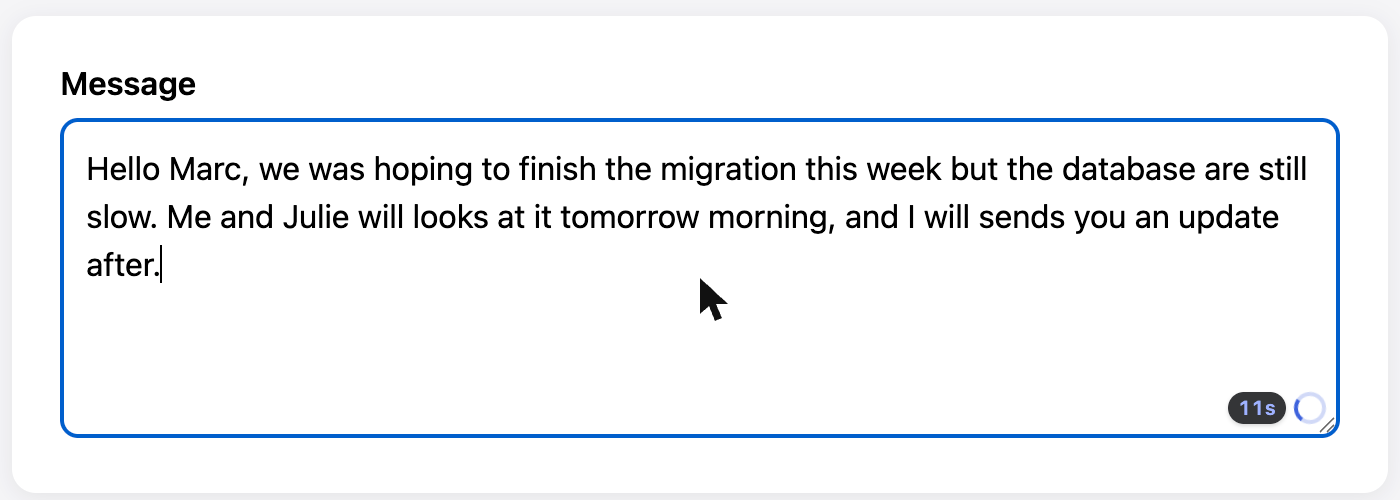
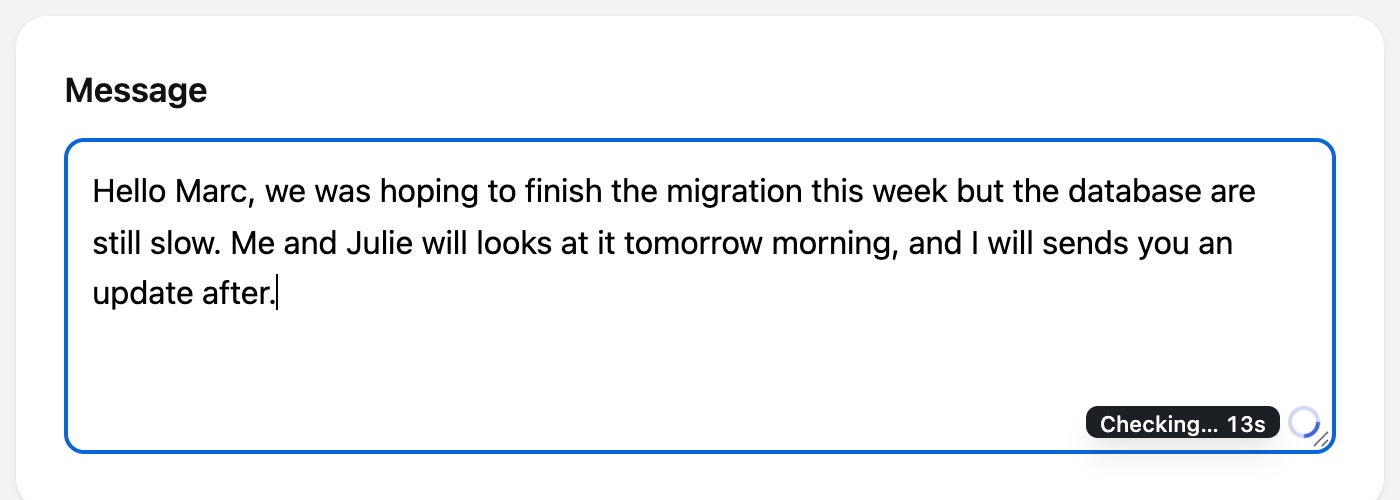
docs: README screenshots in the new extension look, PR screenshots
The card, issue list, rephrase and checking timer images are retaken with
the real content script on a sample page (a stub stands in for the
background and core). The timer text now says it shows on hover, as the
code does. Adds the options page, dark card and before/after images used
by the PR.

Changed region(s): [[0.0307, 0.15, 0.9829, 0.93], [0.4914, 0.57, 0.5221, 0.63]]

diff --git a/README.md b/README.md
@@ -86,9 +86,9 @@ Build the same files locally with `bun run package:extension` and `bun run packa
 
 Focus any text field in Chrome and type. Underlines appear about a second after you stop. Click one to open its card, or click the badge to list every issue and reach the **Rephrase** tone buttons.
 
-While a check runs, the badge is a spinner. On a slow local model, the time spent appears beside it after 10 s, so you can tell a long check from a stuck one:
+While a check runs, the badge is a spinner. Hover it to see how long the check has been running, so on a slow local model you can tell a long check from a stuck one:
 
-![The checking spinner with "11s" beside it](docs/images/checking-timer.png)
+![The checking spinner with "Checking… 13s" beside it](docs/images/checking-timer.png)
 
 <table>
 <tr>
